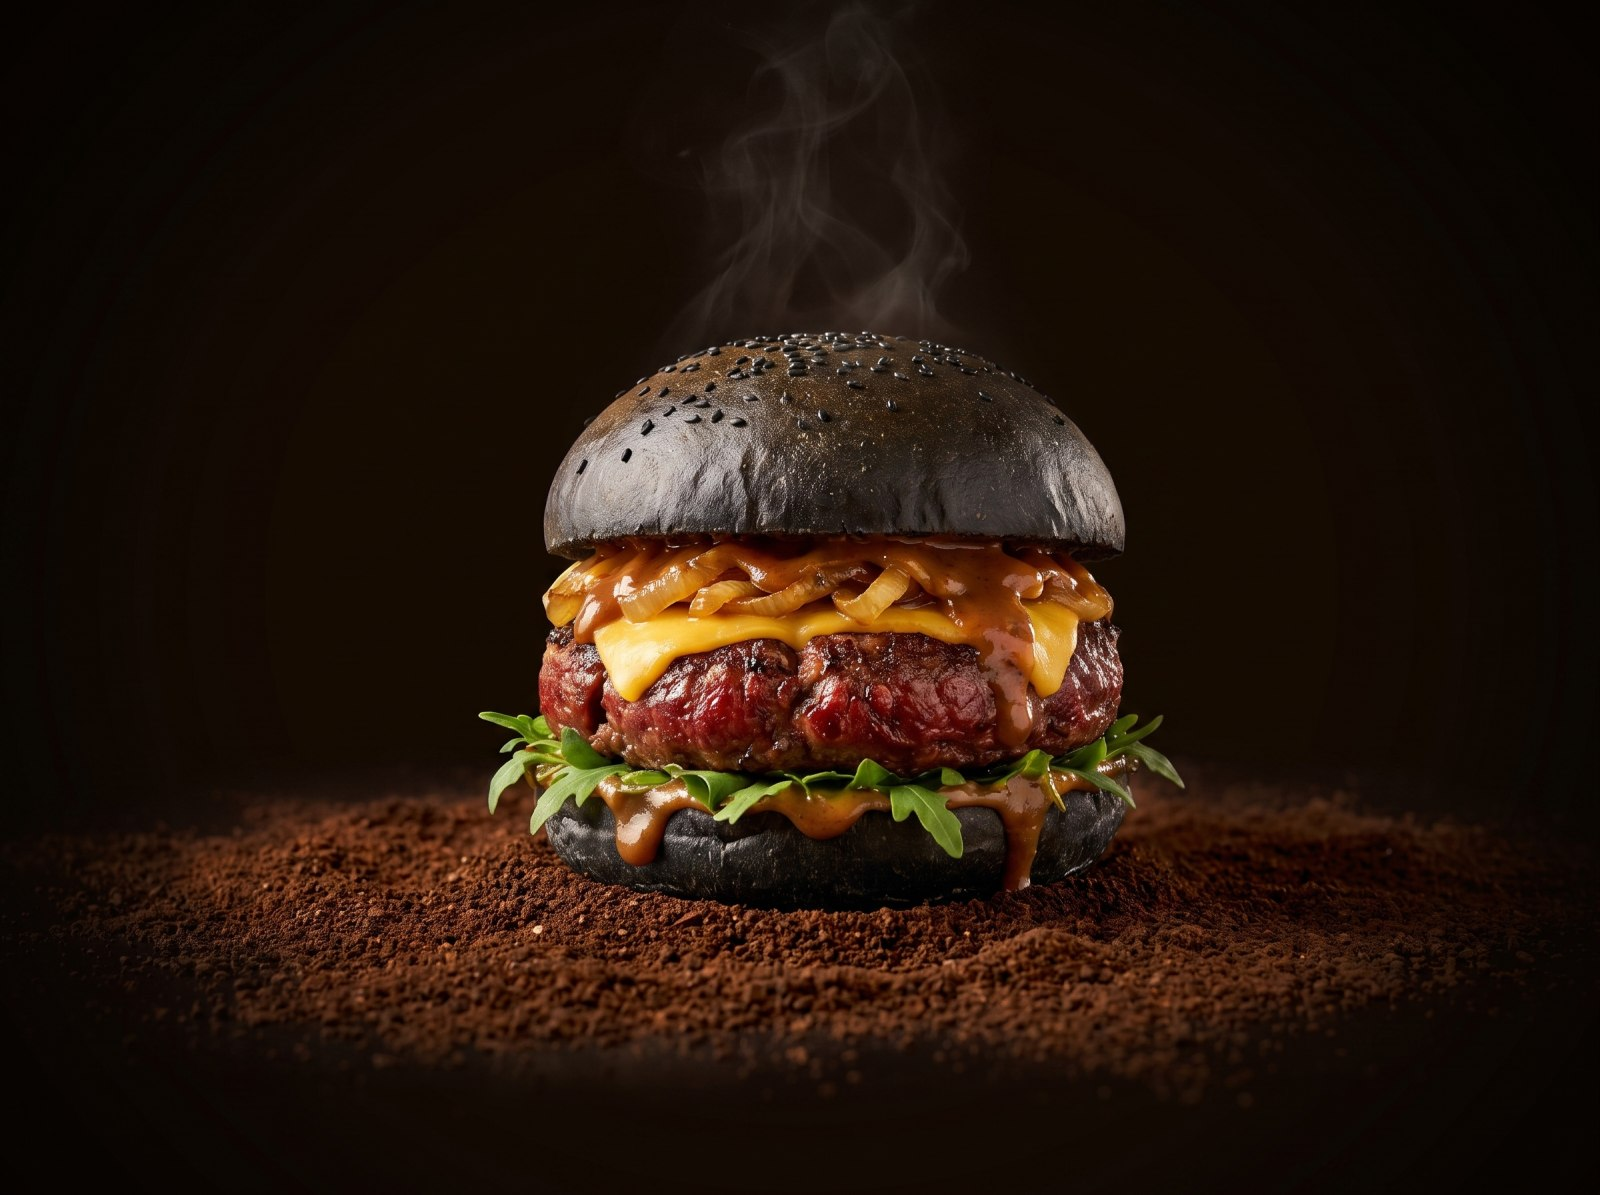
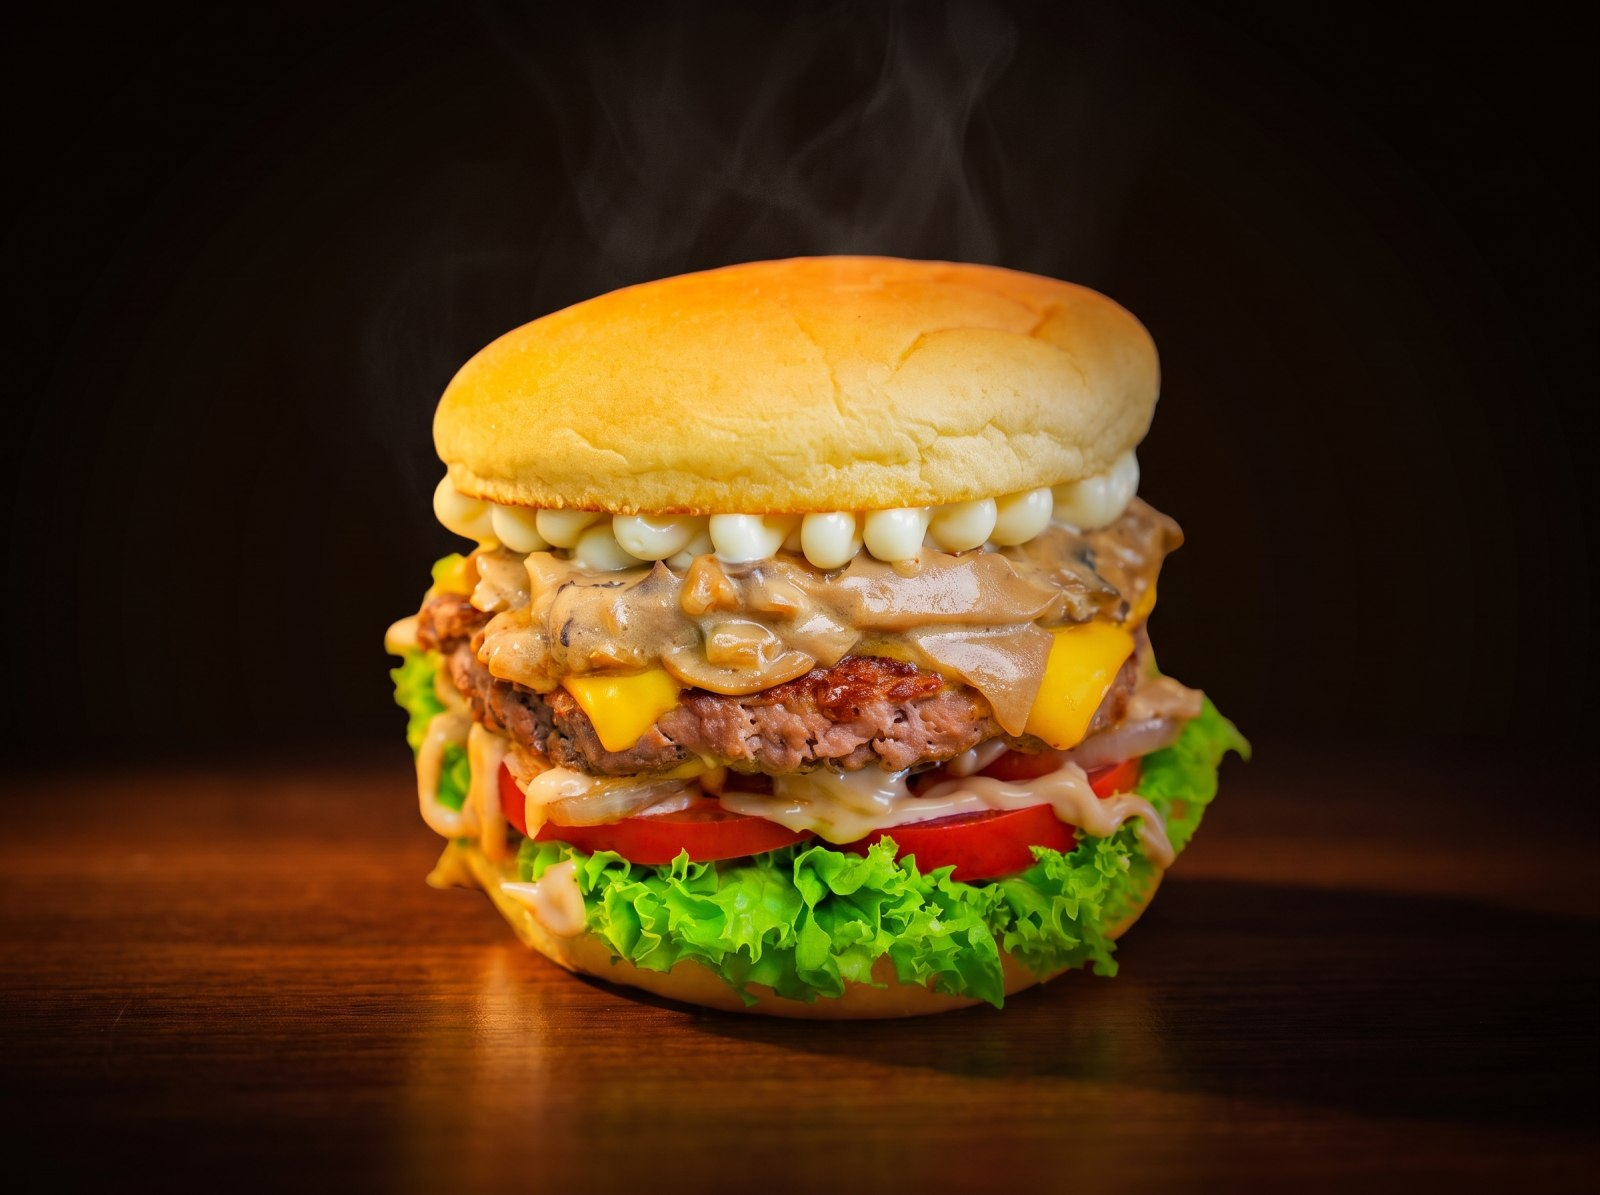
بطاقة الحاشي → حاشي برجراتو بالمشروم (من الصورة الحقيقية، أرضية داكنة) + السعر الرسمي ٤٥ د.إ + تنقية نص الكومبو

diff --git a/index.html b/index.html
@@ -434,10 +434,10 @@
       <div class="cards">
         <article class="ed-card reveal"><div class="pic fallback-host"><img src="assets/product-hero.jpg" alt="سماش برجراتو" loading="lazy" /></div>
           <div class="body"><h3>سماش برجراتو</h3><p>البطل نفسه — طبقتان، شيدر ذائب، وصوص سرّي.</p><span class="tag">وجبة · ٣٢ د.إ</span></div></article>
-        <article class="ed-card reveal"><div class="pic fallback-host"><img src="assets/edition-1.jpg" alt="حاشي برجراتو" loading="lazy" /></div>
-          <div class="body"><h3>حاشي برجراتو</h3><p>لحم حاشي مميّز على خبز الفحم الأسود — تجربة ما تتكرر.</p><span class="tag">وجبة · ٣٢ د.إ</span></div></article>
+        <article class="ed-card reveal"><div class="pic fallback-host"><img src="assets/edition-1.jpg" alt="حاشي برجراتو بالمشروم" loading="lazy" /></div>
+          <div class="body"><h3>حاشي برجراتو بالمشروم</h3><p>لحم حاشي طازج تحت صوص المشروم والبصل الكريمي — وتاج المايونيز علامتنا.</p><span class="tag">وجبة · ٤٥ د.إ</span></div></article>
         <article class="ed-card reveal"><div class="pic fallback-host"><img src="assets/edition-2.jpg" alt="كومبو البطلين" loading="lazy" /></div>
-          <div class="body"><h3>كومبو البطلين</h3><p>سماش + حاشي معاً بدل ٦٤ درهماً — للجوع الجماعي.</p><span class="tag hot">عرض · ٥٥ د.إ</span></div></article>
+          <div class="body"><h3>كومبو البطلين</h3><p>سماش + حاشي معاً — للجوع الجماعي.</p><span class="tag hot">عرض · ٥٥ د.إ</span></div></article>
       </div>
     </div>
   </section>